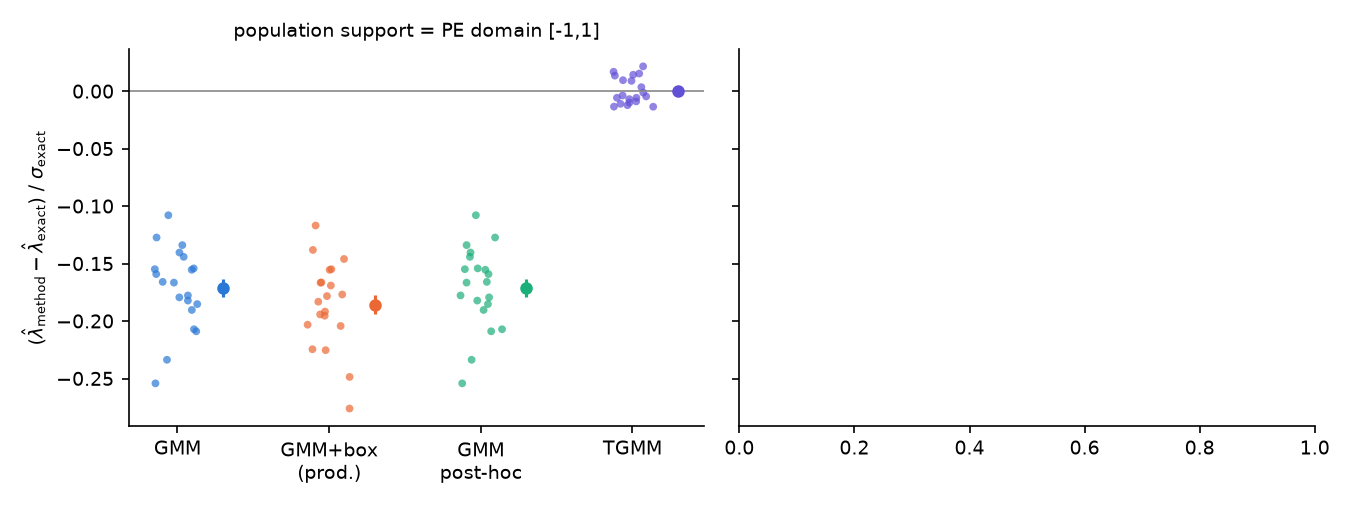
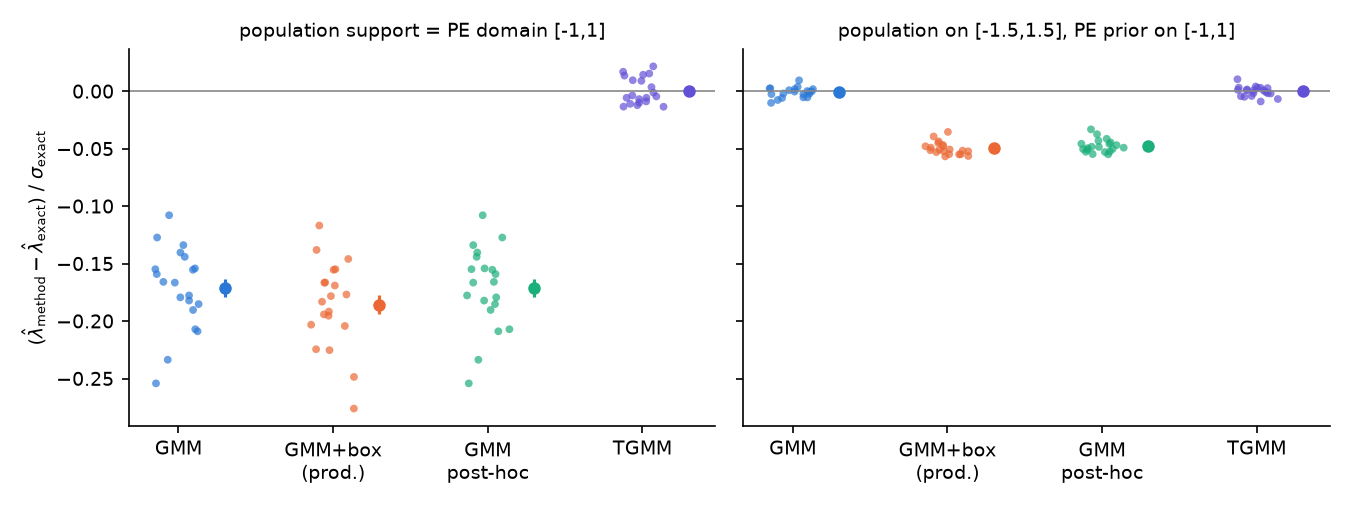
tgmm_toy: add wide-population scenario (inconclusive, misspecified) and final fig2

diff --git a/production/tgmm_toy/README.md b/production/tgmm_toy/README.md
@@ -50,17 +50,24 @@ See `out/case_peakatedgeTN103_seed0.png`.
 Gaussian noise σ ~ U(0.1, 0.5) → exact truncated-normal posteriors; 20 catalogs ×
 200 events; no selection). Shift of the λ posterior mean vs the EXACT posterior:
 
-| method | pop support = D |
-|---|---|
-| GMM | −0.171 ± 0.008 σ |
-| box (prod.) | **−0.186 ± 0.008 σ** |
-| post-hoc trunc | −0.171 ± 0.008 σ |
-| TGMM | **+0.001 ± 0.003 σ** |
+| method | pop support = D | pop on [-1.5,1.5] (see note) |
+|---|---|---|
+| GMM | −0.171 ± 0.008 σ | −0.001 ± 0.001 σ |
+| box (prod.) | **−0.186 ± 0.008 σ** | −0.050 ± 0.001 σ |
+| post-hoc trunc | −0.171 ± 0.008 σ | −0.047 ± 0.001 σ |
+| TGMM | **+0.001 ± 0.003 σ** | −0.000 ± 0.001 σ |
 
-All 20 catalogs shift low for the GMM variants (−0.11 to −0.28 σ); widths are
-unchanged. A fixed per-event bias grows ∝ √N in σ units. The second scenario
-(population wider than the PE prior, `part2_popwide.json`) was still running at
-commit time.
+All 20 catalogs shift low for the GMM variants in the pop-support = D case
+(−0.11 to −0.28 σ); widths are unchanged. A fixed per-event bias grows ∝ √N in
+σ units.
+
+Note on the wide-population column: this scenario is MISSPECIFIED by
+construction (population normalised on [-1.5, 1.5] but only events with true
+x in D are drawn, no selection term), so even the EXACT posterior is off the
+truth by −1.34 (14 σ). Method-vs-exact shifts are all ≤ 0.05 σ, and the plain
+GMM's leak (which gets population weight there) happens to cancel its edge
+deficit. Treat it as inconclusive; a proper test needs a selection term for
+the PE-prior bound.
 
 **Caveats.** The TGMM is the exact model family for these truncated-normal
 posteriors, which flatters it; on the ramp it sometimes underfits (K=1,
